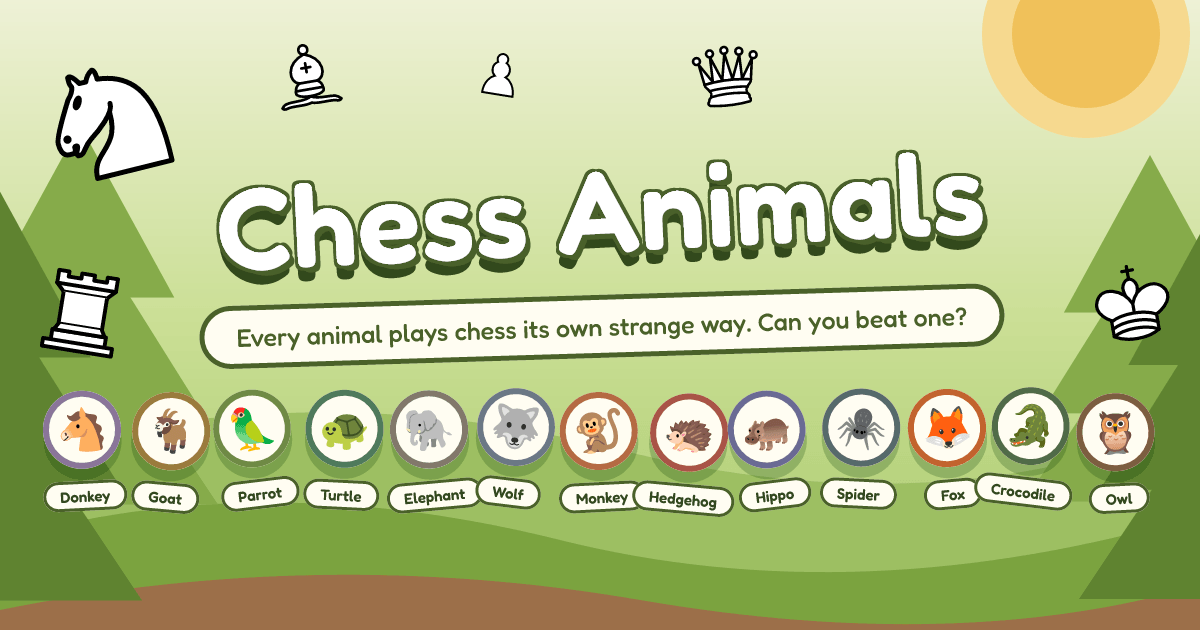
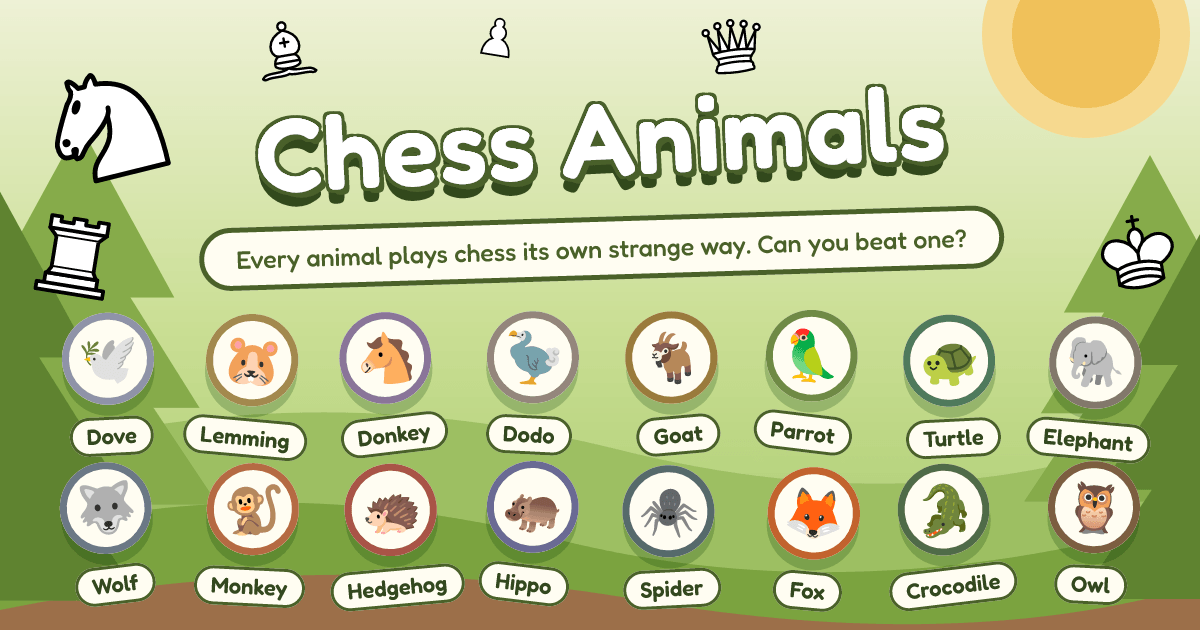
og: stack the roster stickers into two rows for the growing field

diff --git a/cli/og/scatter.ts b/cli/og/scatter.ts
@@ -7,12 +7,12 @@ import type { Chip, PieceUris } from "./tree";
 // outline reads as a cartoon toy against the greenery, where the black pieces flattened into
 // dark blobs.
 const FLOATING = [
-	{ key: "white-knight", left: 34, top: 44, size: 150, rot: -14 },
-	{ key: "white-bishop", left: 268, top: 34, size: 82, rot: -10 },
-	{ key: "white-pawn", left: 470, top: 40, size: 60, rot: 9 },
-	{ key: "white-queen", left: 690, top: 36, size: 78, rot: -7 },
-	{ key: "white-rook", left: 26, top: 250, size: 116, rot: 9 },
-	{ key: "white-king", left: 1090, top: 250, size: 98, rot: -10 },
+	{ key: "white-knight", left: 34, top: 50, size: 146, rot: -14 },
+	{ key: "white-bishop", left: 250, top: 12, size: 74, rot: -10 },
+	{ key: "white-pawn", left: 470, top: 6, size: 54, rot: 9 },
+	{ key: "white-queen", left: 700, top: 10, size: 70, rot: -7 },
+	{ key: "white-rook", left: 20, top: 196, size: 112, rot: 9 },
+	{ key: "white-king", left: 1096, top: 200, size: 96, rot: -10 },
 ];
 
 export function floatingPieces(uris: PieceUris) {
@@ -34,9 +34,12 @@ const clamp = (n: number, lo: number, hi: number) => Math.max(lo, Math.min(hi, n
 // The row has to hold whatever the roster grows to, so nothing here is a fixed size: each
 // animal gets an equal slice of ~1120px and the disc, emoji and label are sized off that slice.
 // Past ~13 animals the slice is too narrow for a readable name, so the labels drop out.
-export function layout(count: number) {
+//
+// `discCap` is lower when the stickers stack in two rows: a full-width disc twice over plus its
+// label runs past the 630px frame, so the two-row caller pins it smaller.
+export function layout(count: number, discCap = 118) {
 	const slot = Math.min(154, Math.floor(1120 / count));
-	const disc = clamp(slot - 8, 44, 118);
+	const disc = clamp(slot - 8, 44, discCap);
 	return {
 		slot,
 		disc,
@@ -99,11 +102,23 @@ function bubble(chip: Chip, i: number, l: ReturnType<typeof layout>) {
 
 // One animal is a sticker: emoji in a cream disc ringed in its tint, a hard offset shadow, and
 // a slight tilt that alternates down the row, so they read as pinned on by hand.
+//
+// The roster is split across two rows so each disc keeps a readable size and its label as the
+// field grows; both rows are sized off the fuller one (the top) so the discs match. The top row
+// takes the extra sticker when the count is odd.
 export function bubbleRow(chips: Chip[]) {
-	const l = layout(chips.length);
+	const half = Math.ceil(chips.length / 2);
+	const rows = [chips.slice(0, half), chips.slice(half)];
+	const l = layout(half, 92);
 	return el(
 		"div",
-		{ display: "flex", justifyContent: "center", marginTop: 30 },
-		chips.map((c, i) => bubble(c, i, l))
+		{ display: "flex", flexDirection: "column", alignItems: "center", marginTop: 30 },
+		rows.map((row, r) =>
+			el(
+				"div",
+				{ display: "flex", justifyContent: "center", marginTop: r === 0 ? 0 : 8 },
+				row.map((c, i) => bubble(c, r * half + i, l))
+			)
+		)
 	);
 }

diff --git a/cli/og/parts.ts b/cli/og/parts.ts
@@ -17,10 +17,11 @@ export function title(text: string) {
 		"div",
 		{
 			fontFamily: "Fredoka",
-			fontSize: 116,
+			fontSize: 104,
 			fontWeight: 600,
 			color: "#ffffff",
 			letterSpacing: 1,
+			marginTop: 8,
 			transform: "rotate(-3deg)",
 			textShadow: TITLE_SHADOW,
 		},

diff --git a/cli/og/tree.ts b/cli/og/tree.ts
@@ -29,7 +29,7 @@ export function buildTree({
 			flexDirection: "column",
 			alignItems: "center",
 			justifyContent: "center",
-			paddingTop: 16,
+			paddingTop: 40,
 			backgroundImage: `url(${backgroundDataUri})`,
 			backgroundSize: `${OG_WIDTH}px ${OG_HEIGHT}px`,
 		},
